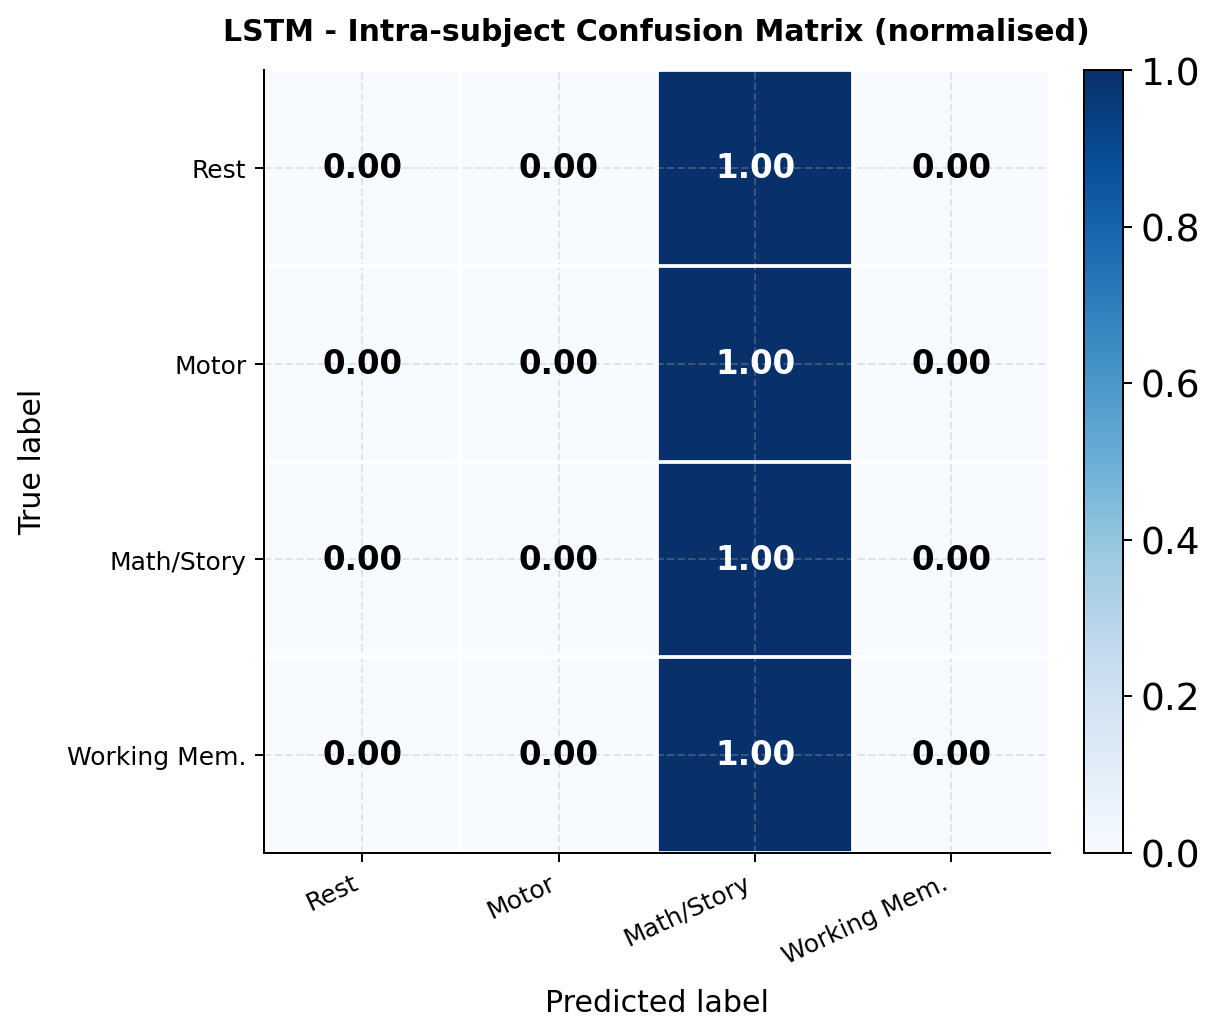
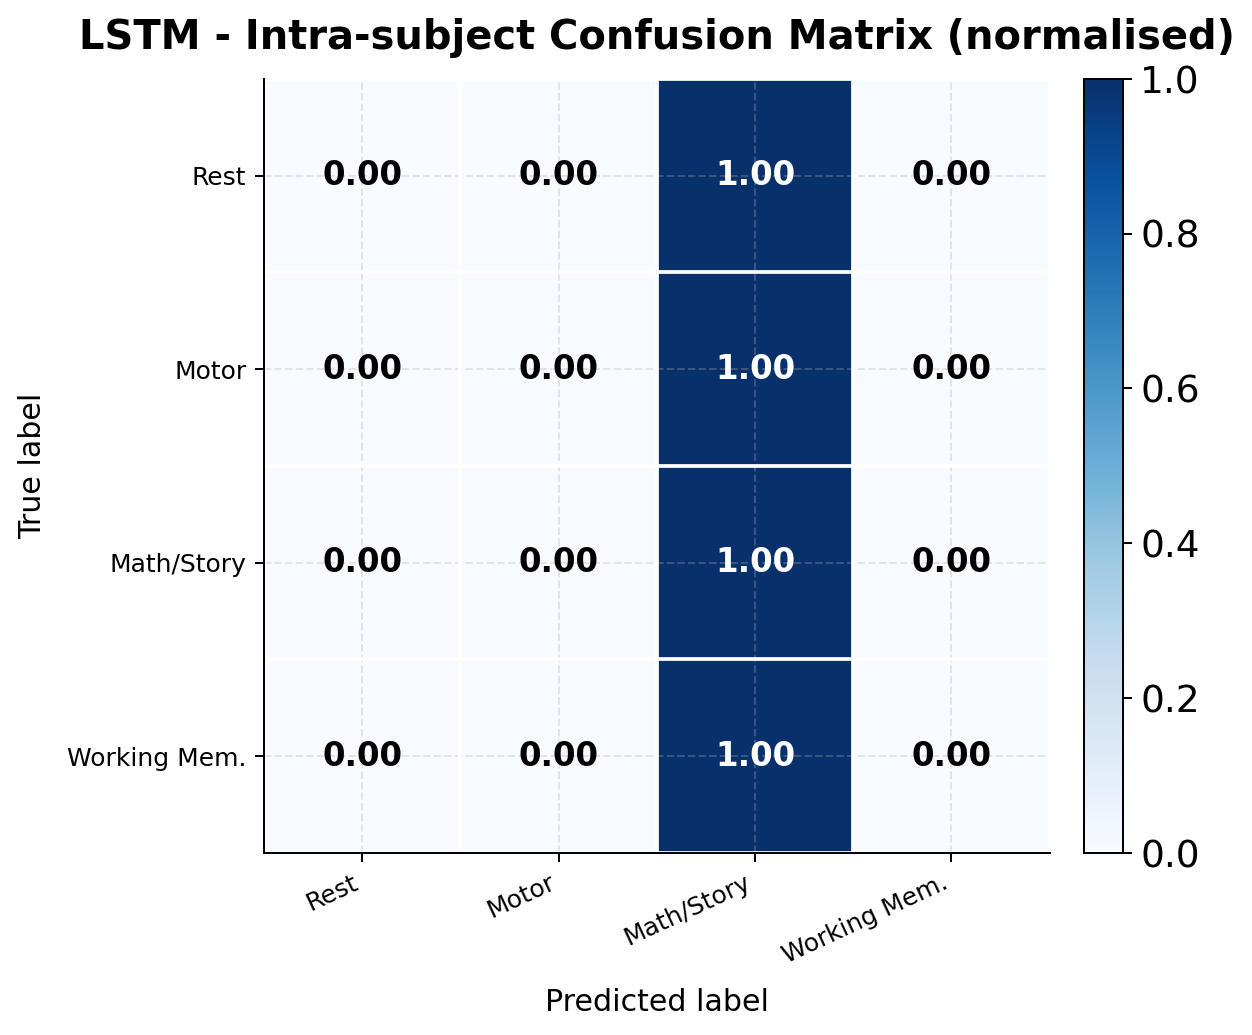
Minor updates

diff --git a/src/models/cnn1d.py b/src/models/cnn1d.py
@@ -15,11 +15,7 @@ Con: not so good at very long-range
 """
 
 import torch.nn as nn
-import sys
-from pathlib import Path
-sys.path.insert(0, str(Path(__file__).resolve().parents[2]))
-from src.config.config import (N_CHANNELS, NUM_CLASSES,
-    CNN1D_CHANNELS, CNN1D_KERNEL, CNN1D_DROPOUT)
+from src.config.config import *
 
 class Conv1DBlock(nn.Module):
     """One convolutional block: Conv -> BatchNorm -> GELU -> Dropout"""
@@ -27,9 +23,9 @@ class Conv1DBlock(nn.Module):
         super().__init__()
         self.block = nn.Sequential(
             nn.Conv1d(in_ch, out_ch,
-                      kernel_size = kernel,
-                      padding = kernel // 2,
-                      bias = False),
+                kernel_size = kernel,
+                padding = kernel // 2,
+                bias = False),
             nn.BatchNorm1d(out_ch),
             nn.GELU(),
             nn.Dropout(dropout))

diff --git a/src/training/trainer.py b/src/training/trainer.py
@@ -167,7 +167,7 @@ def train(
     print(f"\n--Device       : {DEVICE}")
     print(f"--Model        : {model_name}  ({parameters_amount:,} parameters)")
     print(f"--Experiment   : {experiment}")
-    print(f"--Epochs (max) : {epochs}  |  Patience: {patience}")
+    print(f"--Epochs (max) : {epochs} with Patience: {patience}")
 
     optimizer, scheduler, criterion = setup_training(
         model, lr, weight_decay, epochs, label_smoothing)
@@ -197,9 +197,9 @@ def train(
             lr_now = optimizer.param_groups[0]["lr"]
             print(
                 f"  Epoch {epoch:3d}/{epochs}"
-                f"  | train loss {train_loss:.4f}  acc {train_acc:.3f}"
-                f"  | val loss {val_loss:.4f}  acc {val_acc:.3f}"
-                f"  | lr {lr_now:.2e}"
+                f"  - train loss {train_loss:.4f}  acc {train_acc:.3f}"
+                f"  - val loss {val_loss:.4f}  acc {val_acc:.3f}"
+                f"  - lr {lr_now:.2e}"
             )
 
         # Early stopping and model saving
@@ -296,8 +296,8 @@ def train_chunked(
         if epoch % 5 == 0 or epoch == 1:
             print(
                 f"Epoch {epoch:3d}/{epochs}"
-                f"  | train loss {train_loss:.4f}  acc {train_acc:.3f}"
-                f"  | val loss {val_loss:.4f}  acc {val_acc:.3f}"
+                f"  - train loss {train_loss:.4f}  acc {train_acc:.3f}"
+                f"  - val loss {val_loss:.4f}  acc {val_acc:.3f}"
             )
 
         # Early stopping and model saving

diff --git a/src/models/eegnet.py b/src/models/eegnet.py
@@ -15,12 +15,7 @@ Pro's: few parameters
 
 import torch
 import torch.nn as nn
-from src.config.config import (
-    NUM_CLASSES, WINDOW_SIZE, N_CHANNELS,
-    EEGNET_F1, EEGNET_F2, EEGNET_KERNEL_SIZE, EEGNET_DROPOUT)
-import sys
-from pathlib import Path
-sys.path.insert(0, str(Path(__file__).resolve().parents[2]))
+from src.config.config import *
 
 class EEGNet(nn.Module):
     def __init__(self):
@@ -56,8 +51,8 @@ class EEGNet(nn.Module):
         # Refines temporal features in a compute-efficient way
         self.block3 = nn.Sequential(
             nn.Conv2d(EEGNET_F2, EEGNET_F2, kernel_size = (1, 16), padding = (0, 8),
-                      groups = EEGNET_F2, bias = False),                         # Depthwise temporal
-            nn.Conv2d(EEGNET_F2, EEGNET_F2, kernel_size = (1, 1), bias = False), # pointwise mix
+                groups = EEGNET_F2, bias = False), # Depthwise temporal
+            nn.Conv2d(EEGNET_F2, EEGNET_F2, kernel_size = (1, 1), bias = False), # Pointwise mix
             nn.BatchNorm2d(EEGNET_F2),
             nn.ELU(),
             nn.AvgPool2d(kernel_size = (1, 8)),

diff --git a/src/models/cnn_transformer.py b/src/models/cnn_transformer.py
@@ -12,13 +12,7 @@ Theoretically the best, since
 import math
 import torch
 import torch.nn as nn
-from src.config.config import (
-    NUM_CLASSES, N_CHANNELS,
-    CNNTRANS_CNN_CHANNELS, CNNTRANS_D_MODEL, CNNTRANS_NHEAD,
-    CNNTRANS_LAYERS, CNNTRANS_DIM_FF, CNNTRANS_DROPOUT)
-import sys
-from pathlib import Path
-sys.path.insert(0, str(Path(__file__).resolve().parents[2]))
+from src.config.config import *
 
 # 1. CNN frontend
 class CNNFrontend(nn.Module):
@@ -38,7 +32,7 @@ class CNNFrontend(nn.Module):
         for ch in cnn_channels:
             layers += [
                 nn.Conv1d(prev_ch, ch, kernel_size = kernel,
-                          padding = kernel // 2, bias = False),
+                    padding = kernel // 2, bias = False),
                 nn.BatchNorm1d(ch),
                 nn.GELU(),
                 nn.Dropout(dropout),

diff --git a/src/models/gru.py b/src/models/gru.py
@@ -12,11 +12,7 @@ learned so the model focuses on the most informative time points.
 
 import torch
 import torch.nn as nn
-import sys
-from pathlib import Path
-sys.path.insert(0, str(Path(__file__).resolve().parents[2]))
-from src.config.config import (
-    NUM_CLASSES, GRU_HIDDEN, GRU_LAYERS, GRU_DROPOUT, GRU_BIDIR)
+from src.config.config import *
 
 class AttentionPool(nn.Module):
     """

diff --git a/src/models/rnn.py b/src/models/rnn.py
@@ -6,11 +6,7 @@ Probably weak due to the fact that RNN:
 
 import torch
 import torch.nn as nn
-from src.config.config import (
-    NUM_CLASSES, RNN_HIDDEN, RNN_LAYERS, RNN_DROPOUT, RNN_BIDIR)
-import sys
-from pathlib import Path
-sys.path.insert(0, str(Path(__file__).resolve().parents[2]))
+from src.config.config import *
 
 class RNNClassifier(nn.Module):
     def __init__(self):

diff --git a/src/evaluation/plots.py b/src/evaluation/plots.py
@@ -21,11 +21,8 @@ import matplotlib.ticker as mticker
 
 from src.config.config import LABELS, FIGURES_DIR, RESULTS_DIR
 
-import sys
-sys.path.insert(0, str(Path(__file__).resolve().parents[2]))
-
 # Constants
-PALETTE = ["#4C72B0", "#DD8452", "#55A868", "#C44E52", "#8172B2"]
+PALETTE = ["#416AAD", "#D27B49", "#55AE6A", "#C24B4F", "#7A69B2"]
 LABEL_MAP = {
     "rest":                "Rest",
     "task_motor":          "Motor",

diff --git a/src/data/loader.py b/src/data/loader.py
@@ -10,8 +10,6 @@ import torch
 from torch.utils.data import Dataset, DataLoader, random_split
 
 from src.config.config import *
-import sys
-sys.path.insert(0, str(Path(__file__).resolve().parents[2]))
 
 # 1. Assign labeles to the .h5 data
 def get_label(filepath: Path) -> int:
@@ -128,7 +126,7 @@ class MEGDataset(Dataset):
 
 # Build the DataLoaders from .h5 files
 def get_files(folder: Path) -> list[Path]:
-    """Return all .h5 files in a folder, sorted"""
+    """Return all .h5 files in a folder"""
     files = sorted(folder.glob("*.h5"))
     if not files:
         raise FileNotFoundError(f"No .h5 files found in {folder}")

diff --git a/src/models/stacked_lstm.py b/src/models/stacked_lstm.py
@@ -8,9 +8,7 @@ roughly 2x the parameters.
 
 import torch
 import torch.nn as nn
-
-from src.config.config import (WINDOW_SIZE, STACKED_NUM_LAYERS,
-    STACKED_HIDDEN_SIZE, STACKED_DROPOUT_RATE)
+from src.config.config import *
 
 class StackedLSTM(nn.Module):
     """

diff --git a/src/config/config.py b/src/config/config.py
@@ -10,7 +10,7 @@ MODEL_DISPLAY = {
     "cnn1d":           "CNN-1D",
     "cnn_transformer": "CNN+Transformer",
 }
-MODEL = "gru" # Default model if none selected
+MODEL = "cnn1d" # Default model if none selected
 
 # Clasification lables
 LABELS = ["rest", "task_motor", "task_story_math", "task_working_memory"]

diff --git a/src/config/__init__.py b/src/config/__init__.py
@@ -1,1 +1,0 @@
-from .config import *

diff --git a/src/data/__init__.py b/src/data/__init__.py
@@ -1,1 +1,0 @@
-from .loader import build_loaders, build_loaders_chunked, MEGDataset, process_files, get_files